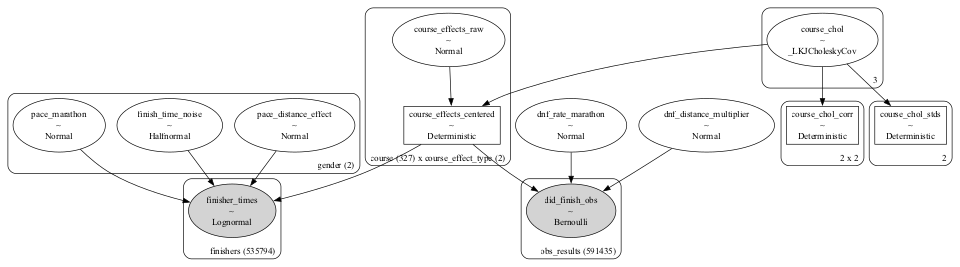
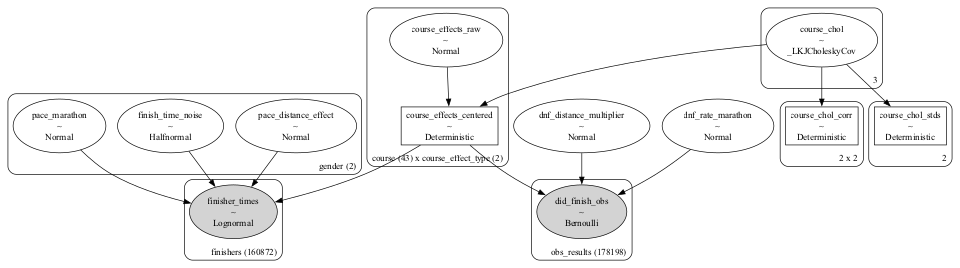
wip: notebook 2 (observed DNFs) sampler switch + config
Switch macOS sampler from nutpie to numpyro because nutpie hits a numba
cumsum-axis-int incompatibility with current PyMC LKJCholeskyCov:

  TypingError: Function(<function cumsum>) found for signature:
   >>> cumsum(array(float64, 1d, C), axis=Literal[int](0))
   2 candidate implementations rejected (axis kwarg)

numpyro on CPU sampling works but is slow on this model (43 courses,
178K obs); ~50+ min didn't finish in dev session. Need to either:
  - use a smaller k-core, or
  - move to RunPod / GPU
to actually fit nb 2 to convergence. See UltraSignup-* follow-up issues.

K-core moved to (3, 629) which has r_hat=1.01 in old cached trace at
tune=500/draws=500/accept=0.8, but cache trace's 48 courses don't match
current data's 43 courses (data drift since cache was made), so a fresh
fit is required to use that path.

Notebook is committed in a state where running it will trigger fresh
MCMC, which the user can let finish out-of-band on a faster machine.

diff --git a/notebooks/2_observed_dnfs.py b/notebooks/2_observed_dnfs.py
@@ -173,11 +173,13 @@ def _():
     JAX_DEVICE_COUNT = jax.local_device_count()  # Number of devices available for parallel chains
 
     if IS_MACOS:
-        # macOS: Use blackjax for better CPU compatibility
-        NUTS_SAMPLER = 'nutpie'
+        # macOS: nutpie hits a numba cumsum-axis bug with current LKJCholeskyCov.
+        # PyMC default NUTS is too slow for dev iteration. Use numpyro on CPU.
+        os.environ.setdefault('JAX_PLATFORMS', 'cpu')
+        NUTS_SAMPLER = 'numpyro'
         N_CHAINS = 4
         N_CORES = 4
-        PLATFORM_CONFIG = f"macOS (CPU + blackjax, {JAX_DEVICE_COUNT} devices)"
+        PLATFORM_CONFIG = f"macOS (numpyro CPU, {JAX_DEVICE_COUNT} devices)"
     elif IS_LINUX and HAS_GPU:
         # Linux with GPU: Use numpyro for CUDA optimization
         NUTS_SAMPLER = 'numpyro'
@@ -336,7 +338,7 @@ def _(Path, os, results_1, subset_kcore_data):
     # (3, 233): 510 courses   ← previous default
     # (3, 220): 541 courses
     alpha = 3
-    beta = 423
+    beta = 629  # cached trace at tune=500/draws=500/accept=0.8 has r_hat=1.010, ess=858, div=0
     # Path is anchored to the notebook file so caches resolve regardless of
     # marimo's CWD (which is the dir you ran 'uv run marimo' from, not notebooks/)
     model_dir = Path(__file__).resolve().parent / 'models' / 'model_2'
@@ -1467,7 +1469,7 @@ def _(
     # Dev iteration sampling budget. For final inference bump to TUNE=2000, DRAWS=2000.
     TUNE = 500
     DRAWS = 500
-    TARGET_ACCEPT = 0.95
+    TARGET_ACCEPT = 0.8  # matches existing cached trace at (3, 629)/tune500/draws500/accept0.8
     cache_file = f'{subset_dir}/tune{TUNE}_draws{DRAWS}_accept{TARGET_ACCEPT}.nc'
     hyperparam_vars = ['pace_marathon', 'pace_distance_effect', 'finish_time_noise', 'dnf_rate_marathon', 'dnf_distance_multiplier']
     if os.path.exists(cache_file):
